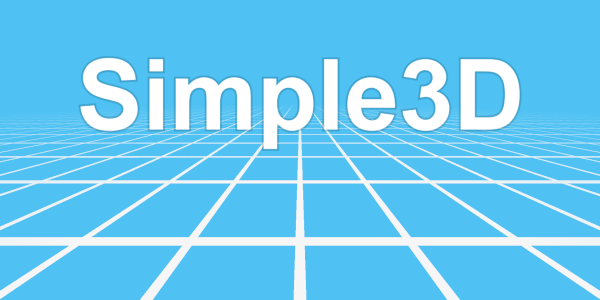
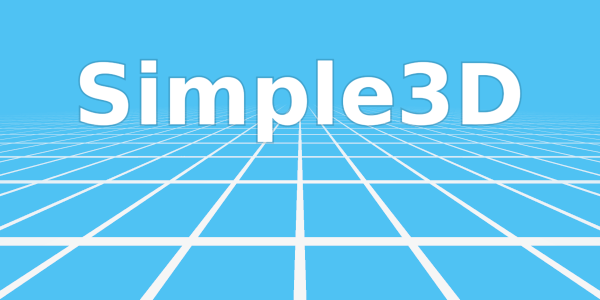
Image: Arial -> DejaVu Sans and add credits

Changed region(s): [[0.12, 0.18, 0.87, 0.51]]

diff --git a/images/README.md b/images/README.md
@@ -298,3 +298,7 @@ All images in this folder are licensed under the [GNU General Public License ver
 
 ## Lily/Video.svg
  - Created by [@LilyMakesThings](https://github.com/LilyMakesThings) in https://github.com/TurboWarp/extensions/pull/656
+
+## Xeltalliv/simple3D.png
+ - Created by [@Xeltalliv](https://github.com/Xeltalliv).
+ - Font is Deja Vu Sans.
